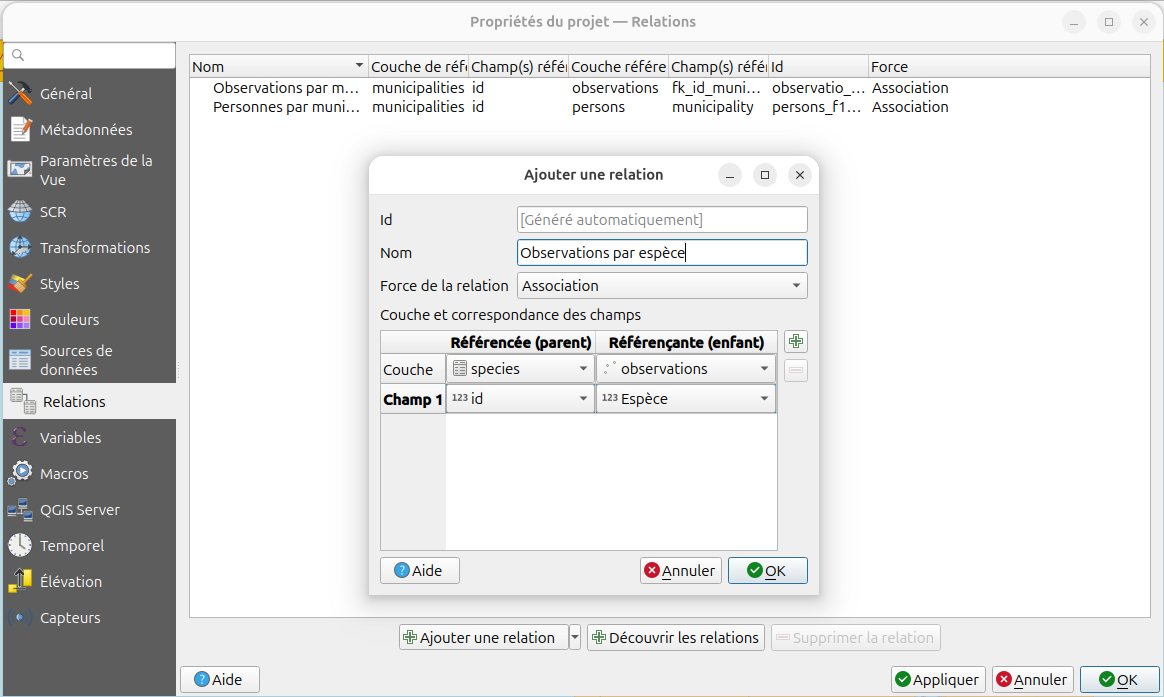
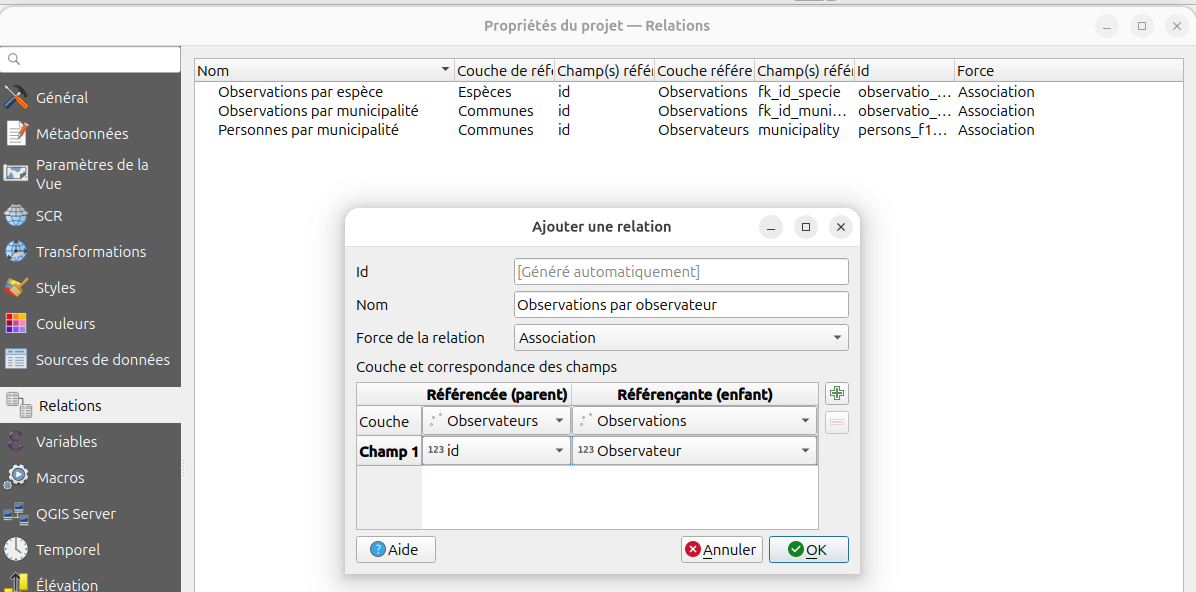
Workshop - first map: fix missing relation

Changed region(s): [[0.0, 0.0, 1.0, 1.0], [0.1546, 0.9426, 0.2474, 1.0]]

diff --git a/docs/workshop/fr/lizmap-short-02-first-map.md b/docs/workshop/fr/lizmap-short-02-first-map.md
@@ -29,9 +29,10 @@ internet.
     * Onglet **Relations**, ajouter toutes les relations
         * Couches PostgreSQL : **automatiquement** avec le bouton **découvrir**
         * Sinon ajouter 3 relations entre les couches respectives
-            * `municipalities` & `observations`,
-            * `municipalities` & `persons`,
-            * `species` et `observations`
+            * `municipalities` & `observations` : les observations par commune,
+            * `municipalities` & `persons` : les personnes par commune,
+            * `species` & `observations` : les observations par espèces,
+            * `persons` & `observations` : les observations par personne
           ![Relations QGIS](../media/project_relations.png)
     * Onglet **QGIS Serveur**,
         * **Capacités des services**
